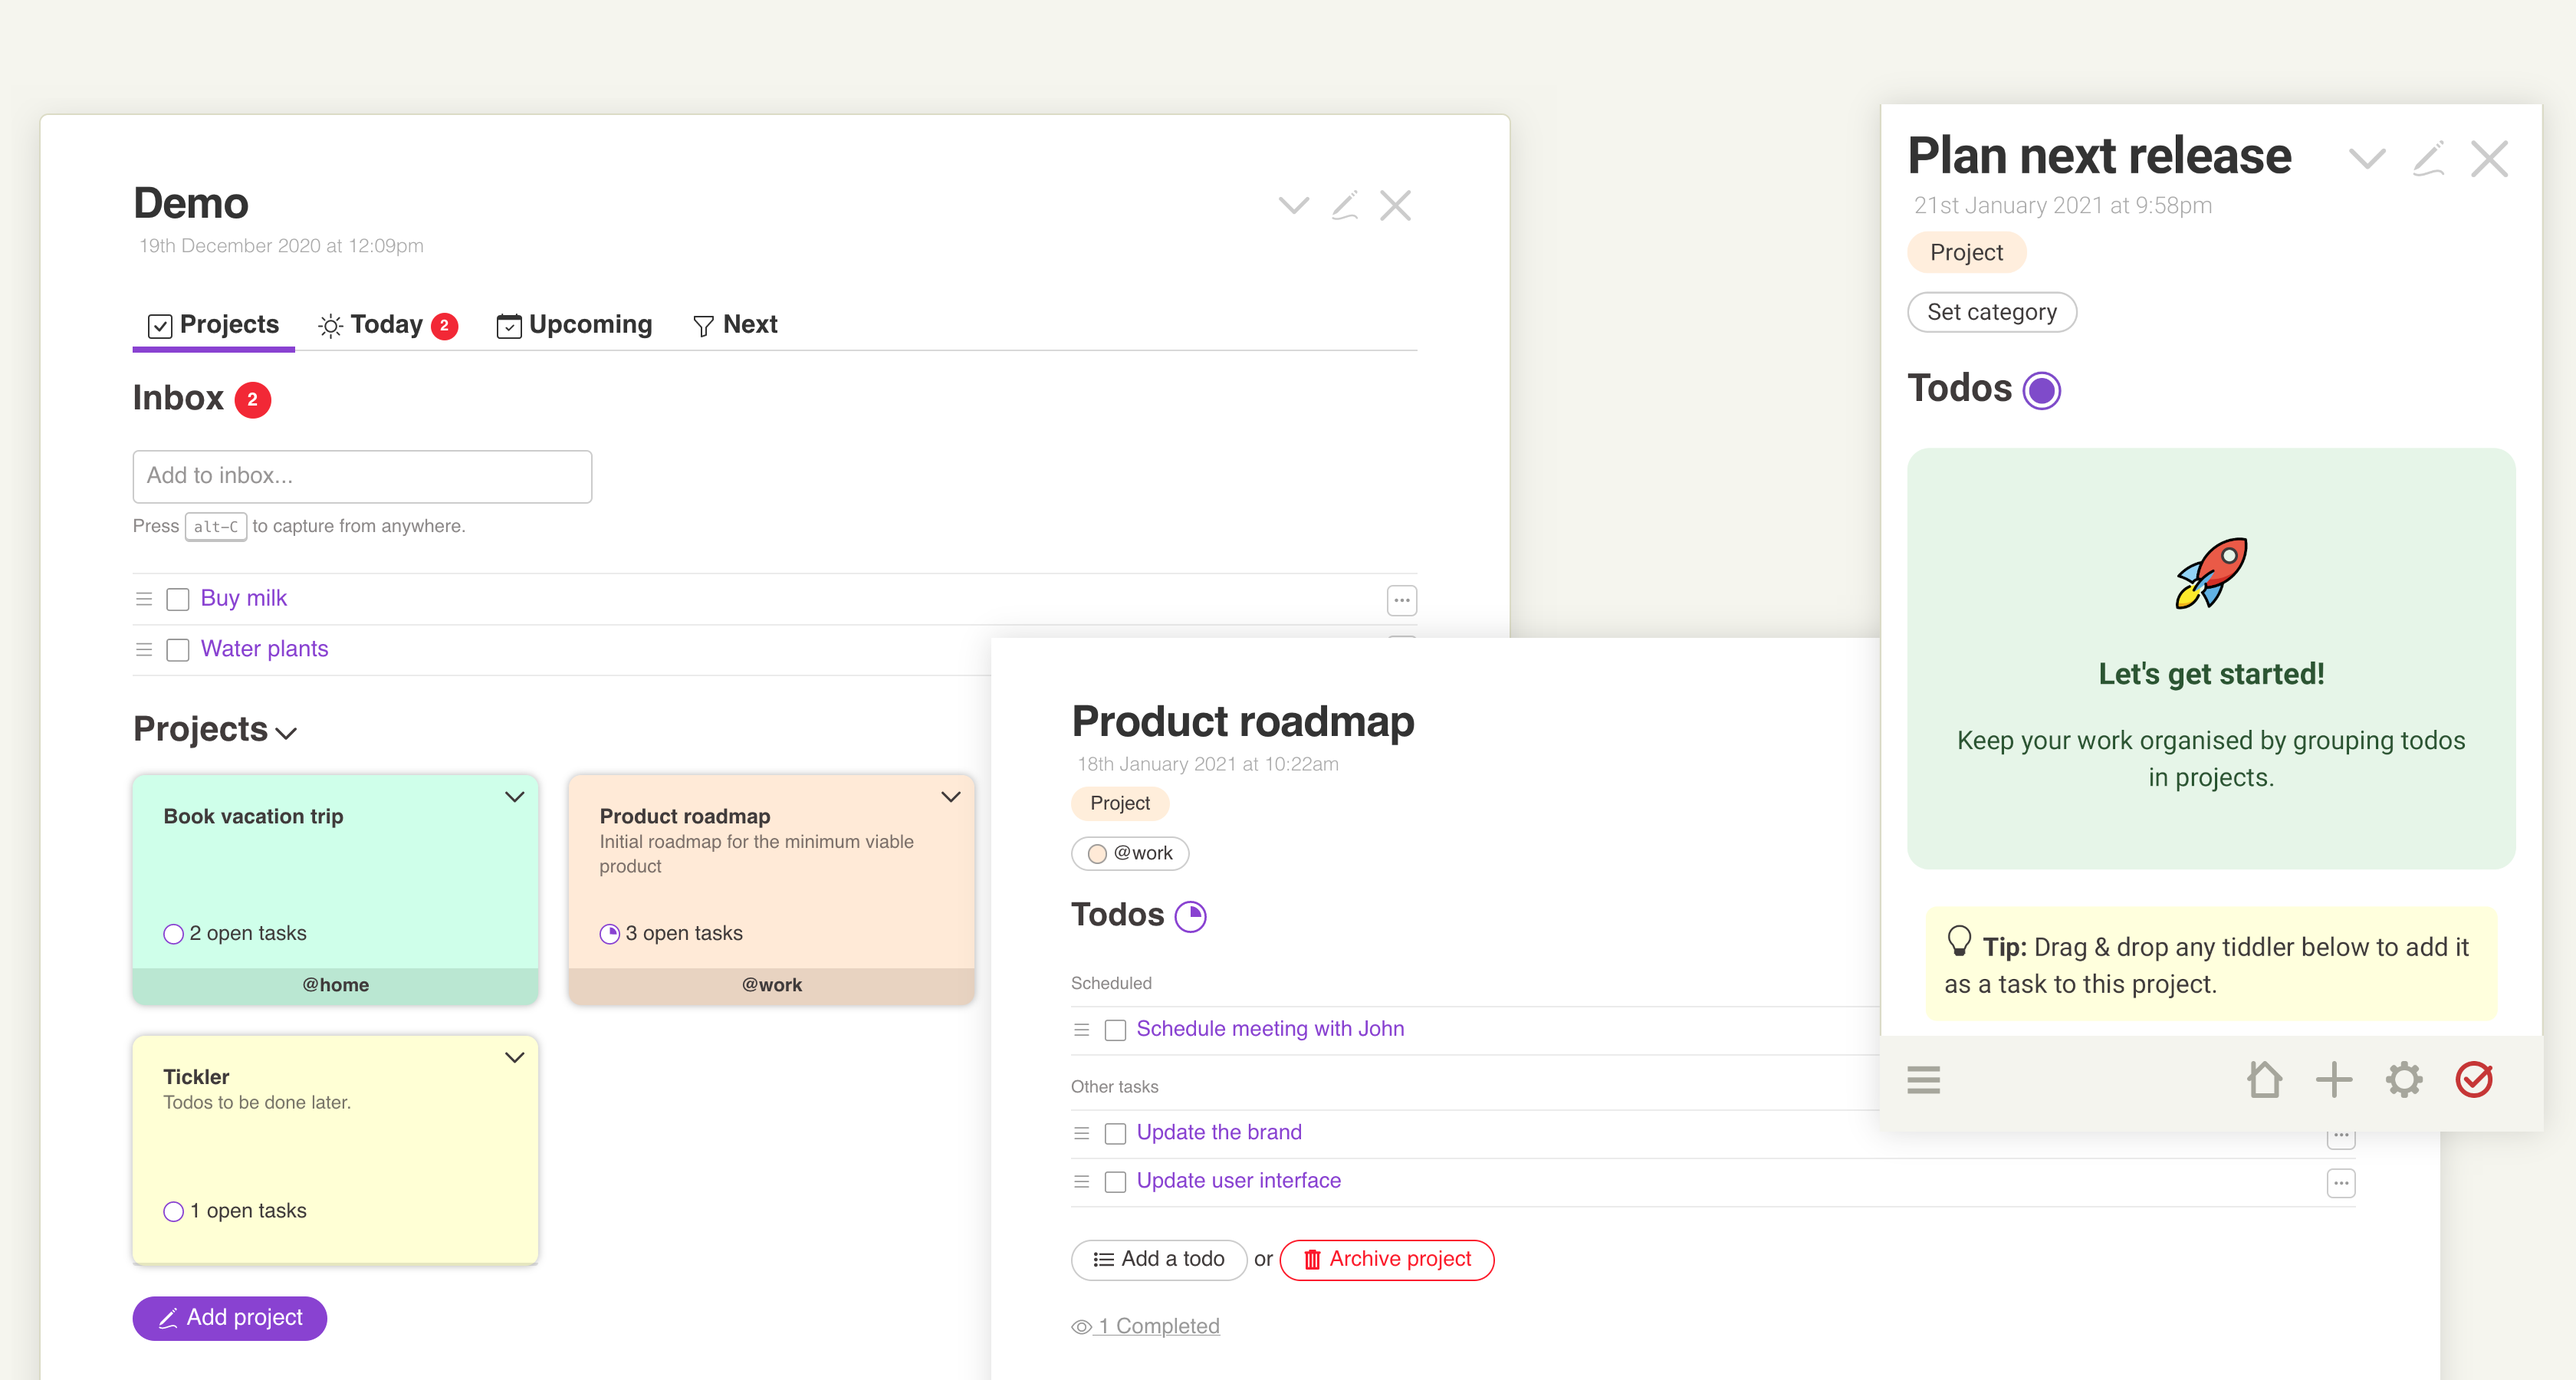
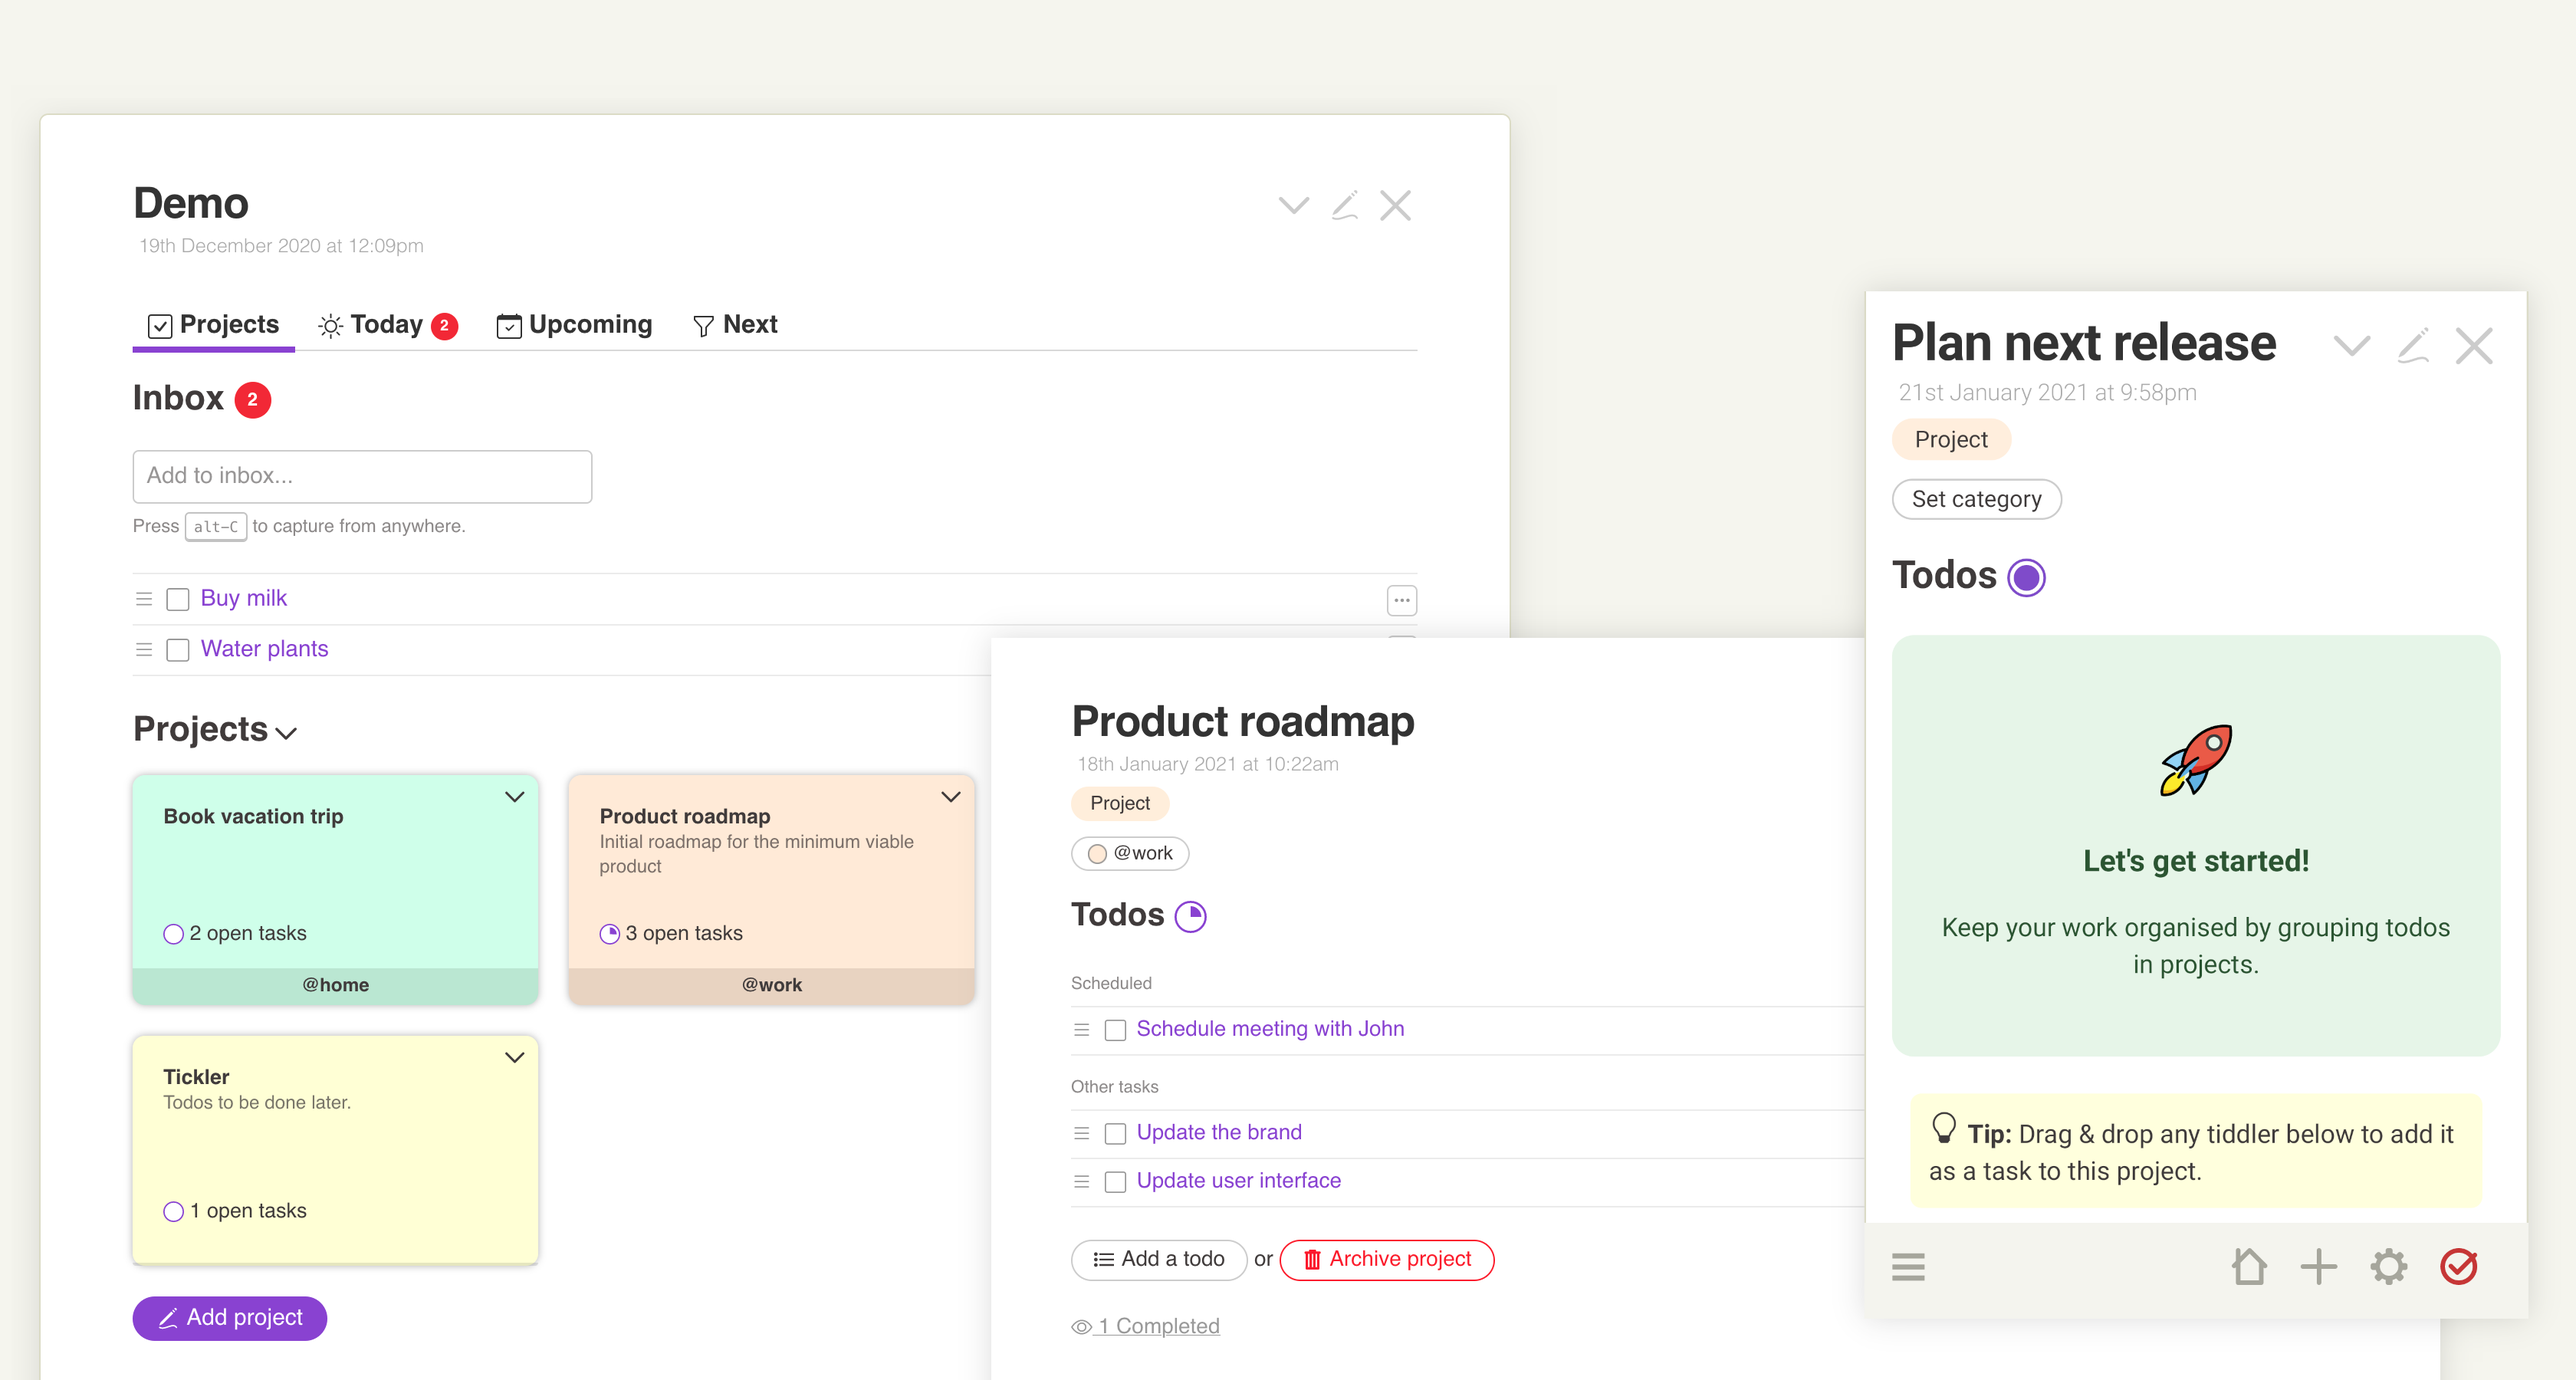
Update teaser image

diff --git a/website/css/index.css b/website/css/index.css
@@ -6,7 +6,7 @@
   --foreground: #3F3B3B;
   --light-foreground: #7c7c67;
   --very-light-foreground: #a4a491;
-  --background: #f4f4ee;
+  --background: #f5f5ee;
   --primary: #7f4bca;
   --secondary: #58e474;
   --light: #fafafa;
